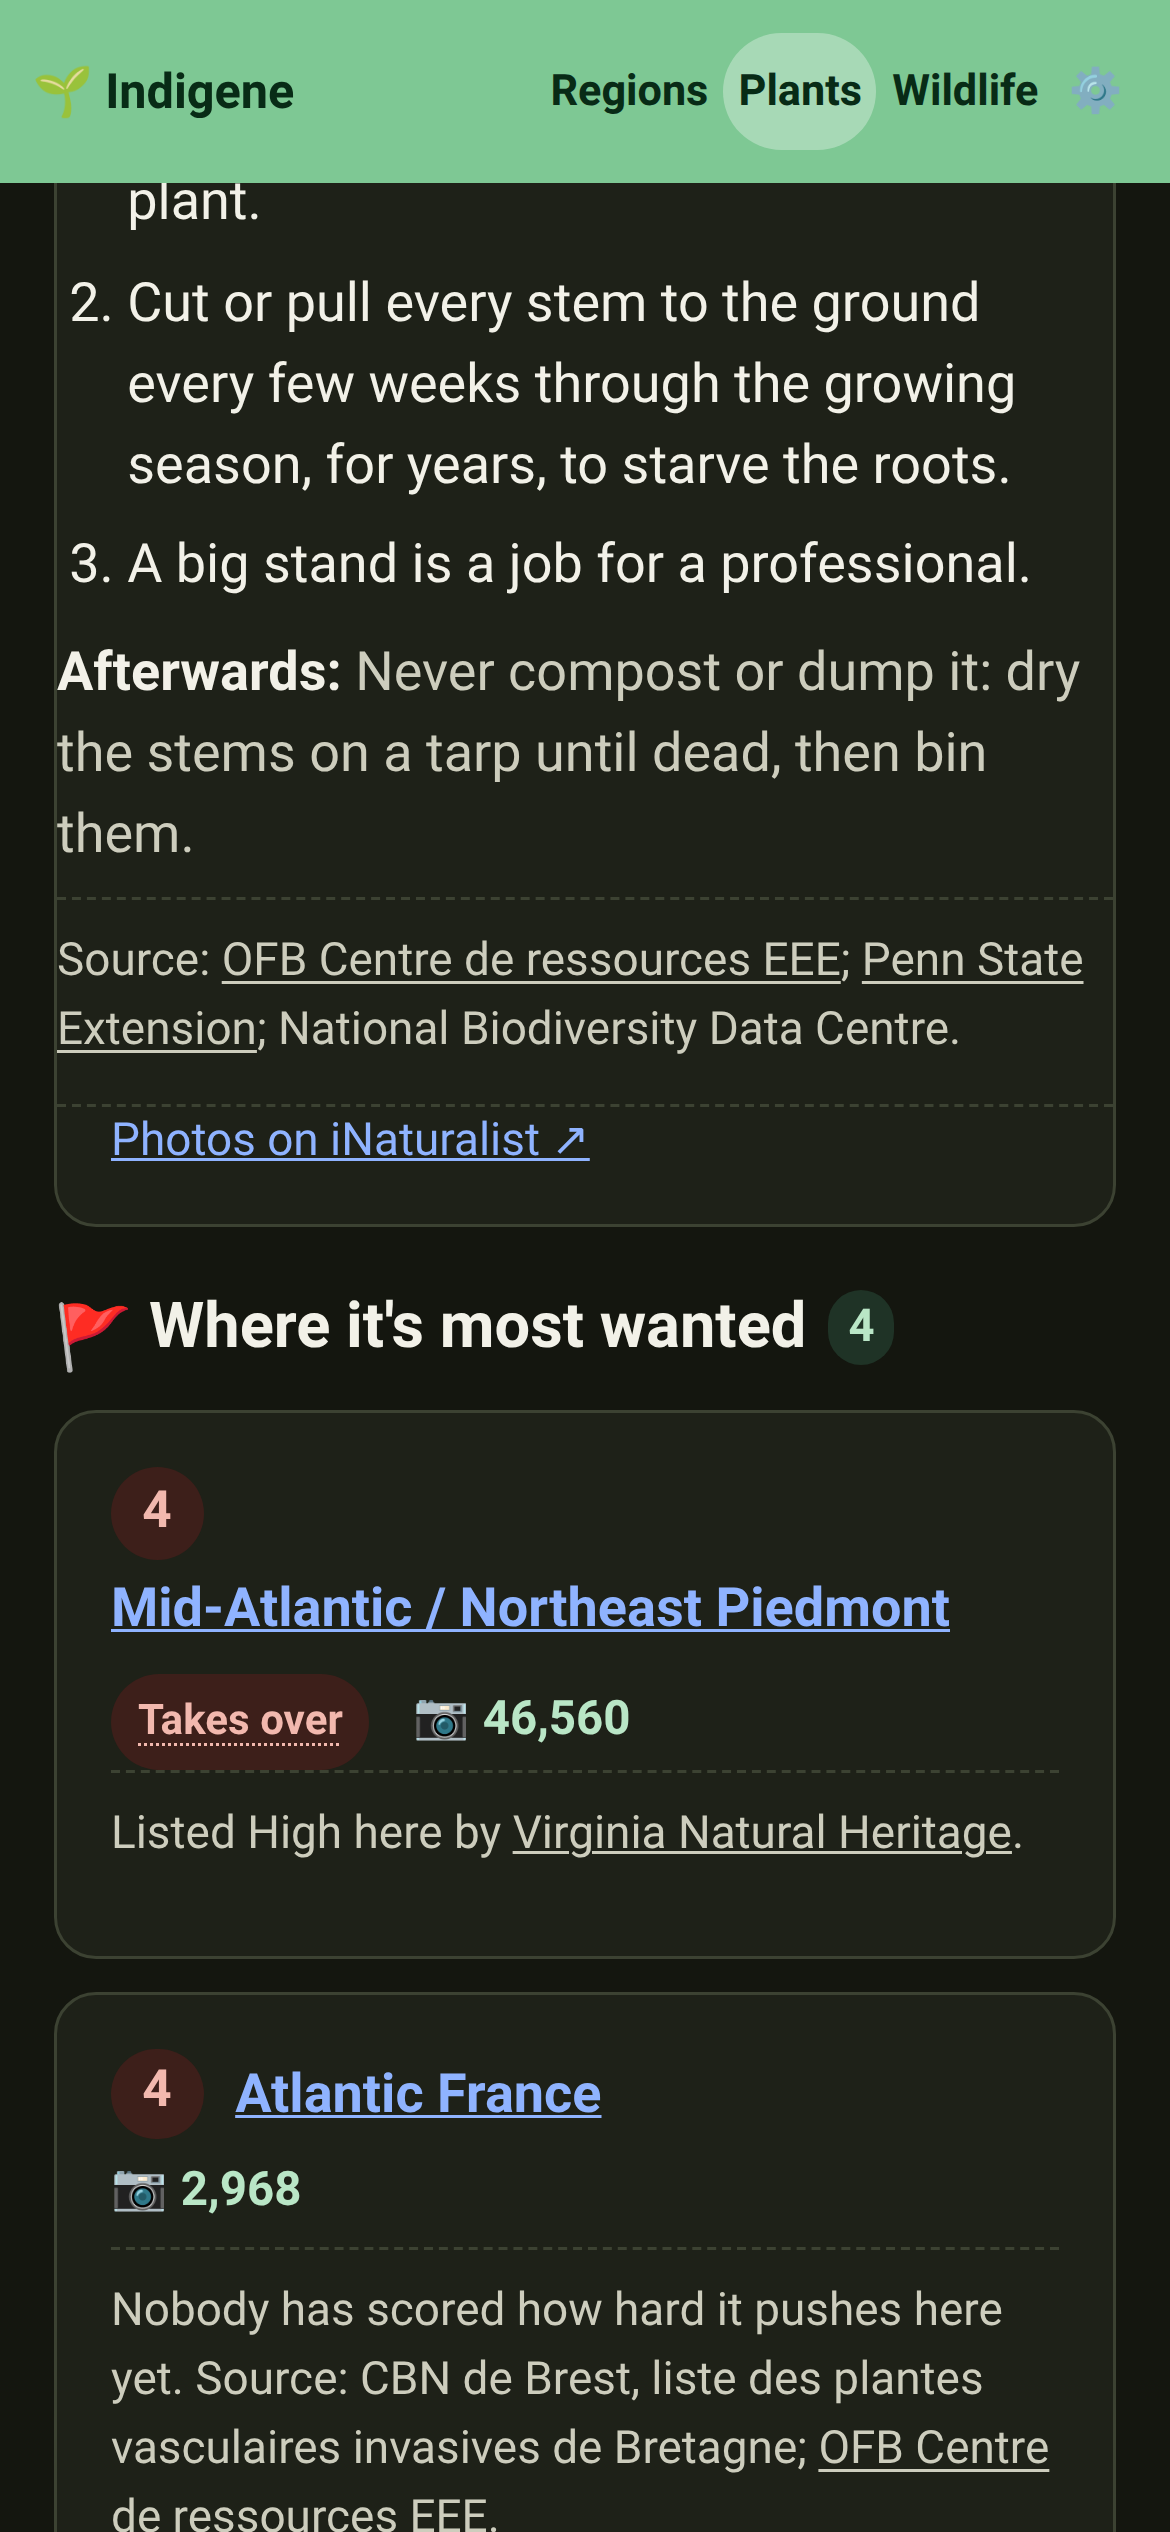
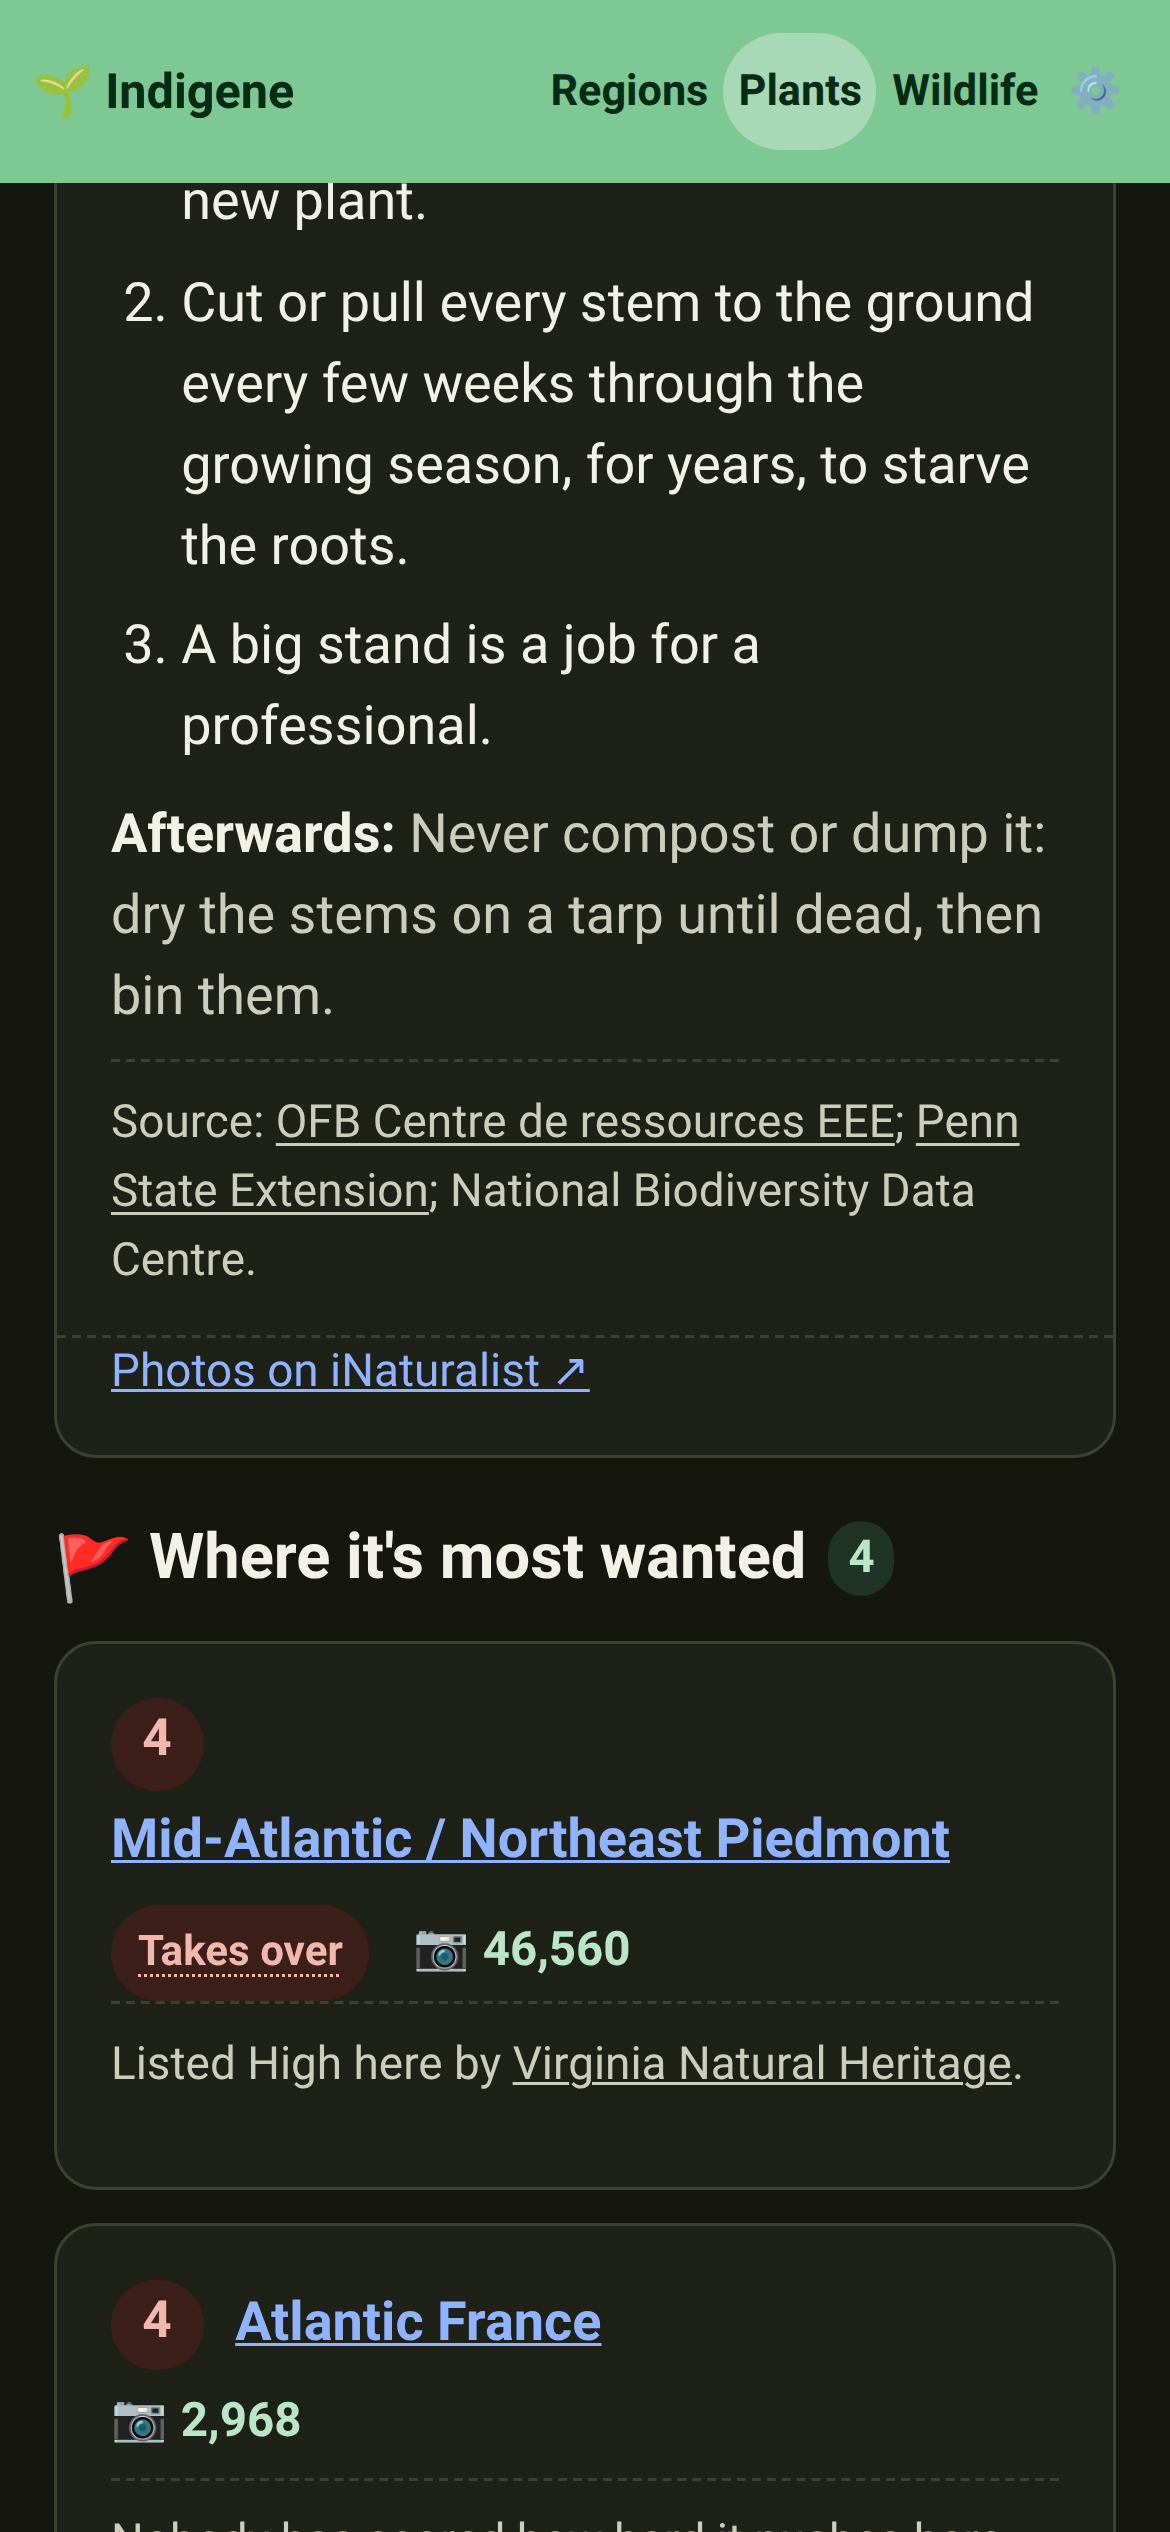
Most-wanted: give the marks and removal steps the card's gutter
The profile card pads only its direct paragraphs, so the heading, marks
list and steps list ran to the card's edge on a phone. They now sit in
one padded body; the laptop layout's own reset still applies.

Claude-Session: https://claude.ai/code/session_014rWijC9sXxQQnaFpLCoqrv

diff --git a/app/src/steps/invasives.ts b/app/src/steps/invasives.ts
@@ -90,12 +90,16 @@ export function renderInvasive(main: HTMLElement, param?: string): void {
           el("div", { class: names.subIsLatin ? "plant-latin" : "plant-latin plant-foreign" }, names.sub),
         ]),
       ]),
-      el("h3", { style: "margin:1rem 0 0" }, t("wanted.howToSpot")),
-      el("dl", { class: "wanted-marks" }, invasiveMarks(inv).flatMap((m) => [
-        el("dt", {}, m.feature),
-        el("dd", {}, m.text),
-      ])),
-      removalSection(inv),
+      // The profile card has no padding of its own (`.plant`), so the blocks
+      // that aren't bare paragraphs sit in one body that carries the gutter.
+      el("div", { class: "wanted-profile-body" }, [
+        el("h3", { style: "margin:1rem 0 0" }, t("wanted.howToSpot")),
+        el("dl", { class: "wanted-marks" }, invasiveMarks(inv).flatMap((m) => [
+          el("dt", {}, m.feature),
+          el("dd", {}, m.text),
+        ])),
+        removalSection(inv),
+      ]),
       ...swapLinks(inv, places.map((p) => p.regionId)),
       el("p", { class: "confidence" }, [
         el("a", {

diff --git a/app/src/styles.css b/app/src/styles.css
@@ -5555,6 +5555,11 @@ body[data-layout="profile"] .wip-banner-text {
 .wanted-marks dd {
   margin: 0.05rem 0 0;
 }
+/* The invasive profile's marks and removal steps, inside a card that pads
+   nothing itself — the same 1rem gutter its paragraphs get. */
+.wanted-profile-body {
+  padding: 0 1rem;
+}
 .wanted-steps {
   margin: 0;
   padding-left: 1.3rem;
